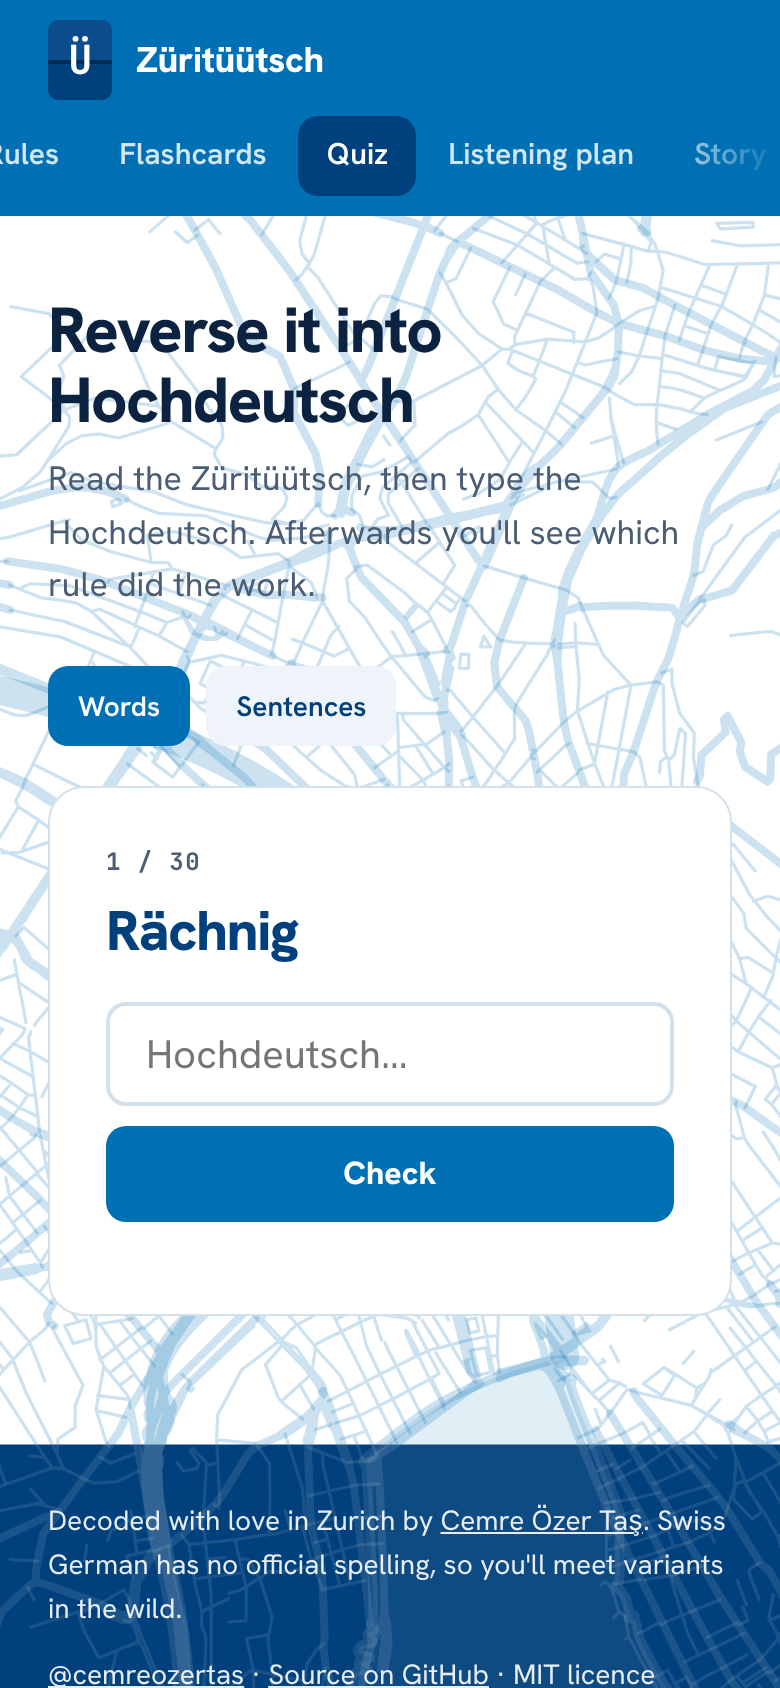
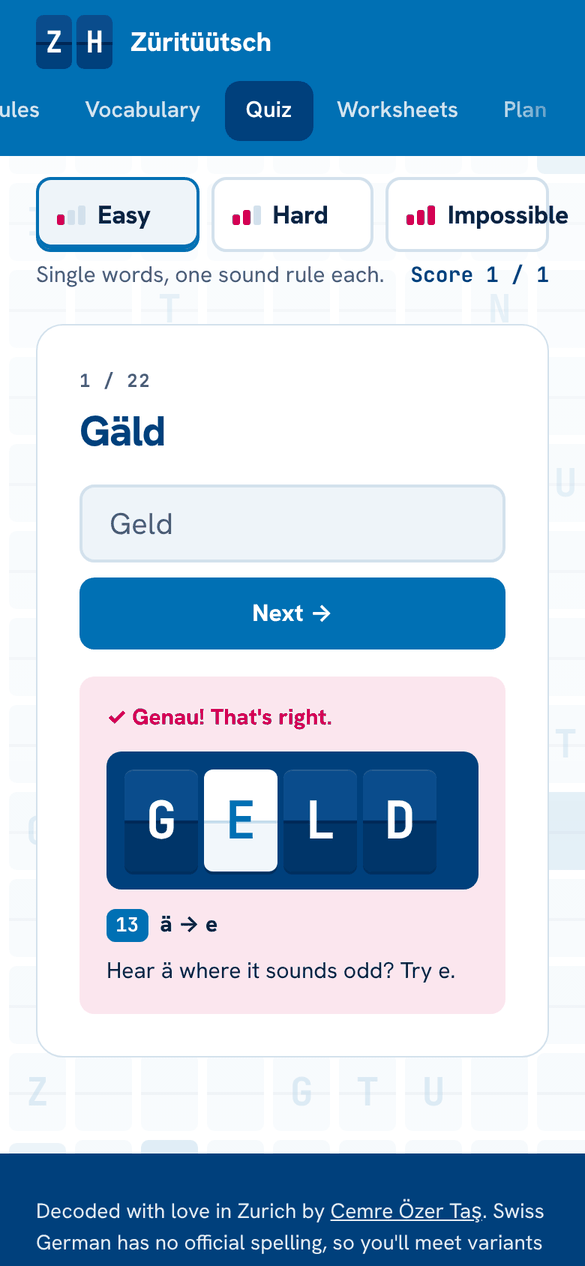
Refresh README screenshots, fix Start page counts, footer in Zurich German

diff --git a/index.html b/index.html
@@ -74,7 +74,7 @@
         <p class="section-label">What you'll find here</p>
         <div class="intro-grid">
           <div class="intro-card">
-            <span class="num">13</span>
+            <span class="num" data-count="rules">13</span>
             <h2>Sound shifts</h2>
             <p>Many Züritüütsch sounds line up with Hochdeutsch in regular ways. Learn the patterns once and many words decode themselves.</p>
             <a class="link-arrow" href="#rules">See the rules</a>
@@ -86,7 +86,7 @@
             <a class="link-arrow" href="#cards">Practise the vocabulary</a>
           </div>
           <div class="intro-card">
-            <span class="num">45</span>
+            <span class="num" data-count="quiz">52</span>
             <h2>Reverse-it quiz</h2>
             <p>Read the Züritüütsch, type the Hochdeutsch, and see which rule did the work.</p>
             <a class="link-arrow" href="#quiz">Start the quiz</a>
@@ -298,7 +298,7 @@
 
   <footer class="footer">
     <div class="wrap footer-row">
-      <p>Decoded with love in Zurich by <a href="https://github.com/cemreozertas">Cemre Özer Taş</a>. Swiss German has no official spelling, so you'll meet variants in the wild.</p>
+      <p><span lang="gsw">Mit Liebi gmacht z Züri vo</span> <a href="https://github.com/cemreozertas">Cemre Özer Taş</a>. Swiss German has no official spelling, so you'll meet variants in the wild.</p>
       <p><a href="https://github.com/cemreozertas">@cemreozertas</a> · <a href="https://github.com/" id="repo-link">Source on GitHub</a> · MIT licence<br>Map data © <a href="https://www.openstreetmap.org/copyright">OpenStreetMap contributors</a></p>
     </div>
   </footer>

diff --git a/README.md b/README.md
@@ -8,7 +8,7 @@ Turkish is my mother tongue, German my second home, and Zurich German the langua
 
 👉 **Try it live: https://cemreozertas.github.io/zueri-tuetsch/**
 
-![The decoder flipping Ziitig into Zeitung on a departure board](docs/screenshot-hero.png)
+![The start page: Zurich German, seen through a translator's eye](docs/screenshot-hero.png)
 
 ## The idea
 
@@ -29,7 +29,16 @@ Zurich German isn't a variant of Standard German but its close relative: both gr
 | **Plan** | A listening and reading plan in four stages, with 25 checked sources online and around Zurich: SRF Meteo, regional news, Neumatt, TeleZüri, Bligg, the Märchenbühne, the PBZ Schweizerdeutsch-Café, Zurich German books and more. Each source says honestly which dialect you'll hear. |
 | **Story** | Where Zurich German comes from, in twelve short headlines you can open for details: the Alemanni, the old vowels, why the Swiss write Hochdeutsch, the missing ß, no official spelling and more. Every fact links to its source. |
 
-![The reverse-it quiz on a phone](docs/screenshot-quiz.png)
+<p>
+  <img src="docs/screenshot-decode.png" width="49%" alt="The decoder turning Hüüser into Häuser on a departure board">
+  <img src="docs/screenshot-plan.png" width="49%" alt="The listening and reading plan with source cards">
+</p>
+
+<p align="center">
+  <img src="docs/screenshot-quiz.png" width="24%" alt="The reverse-it quiz on a phone">&nbsp;
+  <img src="docs/screenshot-vocabulary.png" width="24%" alt="A vocabulary flashcard on a phone">&nbsp;
+  <img src="docs/screenshot-story.png" width="24%" alt="The story of Züritüütsch on a phone">
+</p>
 
 ## Design
 
@@ -72,8 +81,6 @@ Swiss German has no official spelling. This app follows common Zurich usage, wit
 
 ## Credits
 
-[Cemre](https://github.com/cemreozertas) is a Zurich-based tinkerer at heart. She builds automations, templates and apps for creative minds who love a well-run life, with [Claude](https://claude.ai) as her building partner.
-
-Map data © [OpenStreetMap contributors](https://www.openstreetmap.org/copyright), via [EqualStreetNames Zürich](https://github.com/EqualStreetNames/equalstreetnames-zurich). Fonts: [Hanken Grotesk](https://github.com/marcologous/hanken-grotesk) and [JetBrains Mono](https://github.com/JetBrains/JetBrainsMono), both under the SIL Open Font License.
+Made with love in Zurich by Cemre, built together with [Claude](https://claude.ai). Map data © [OpenStreetMap contributors](https://www.openstreetmap.org/copyright), via [EqualStreetNames Zürich](https://github.com/EqualStreetNames/equalstreetnames-zurich). Fonts: [Hanken Grotesk](https://github.com/marcologous/hanken-grotesk) and [JetBrains Mono](https://github.com/JetBrains/JetBrainsMono), both under the SIL Open Font License.
 
 Licensed under the [MIT licence](LICENSE): free to use, copy and adapt.
